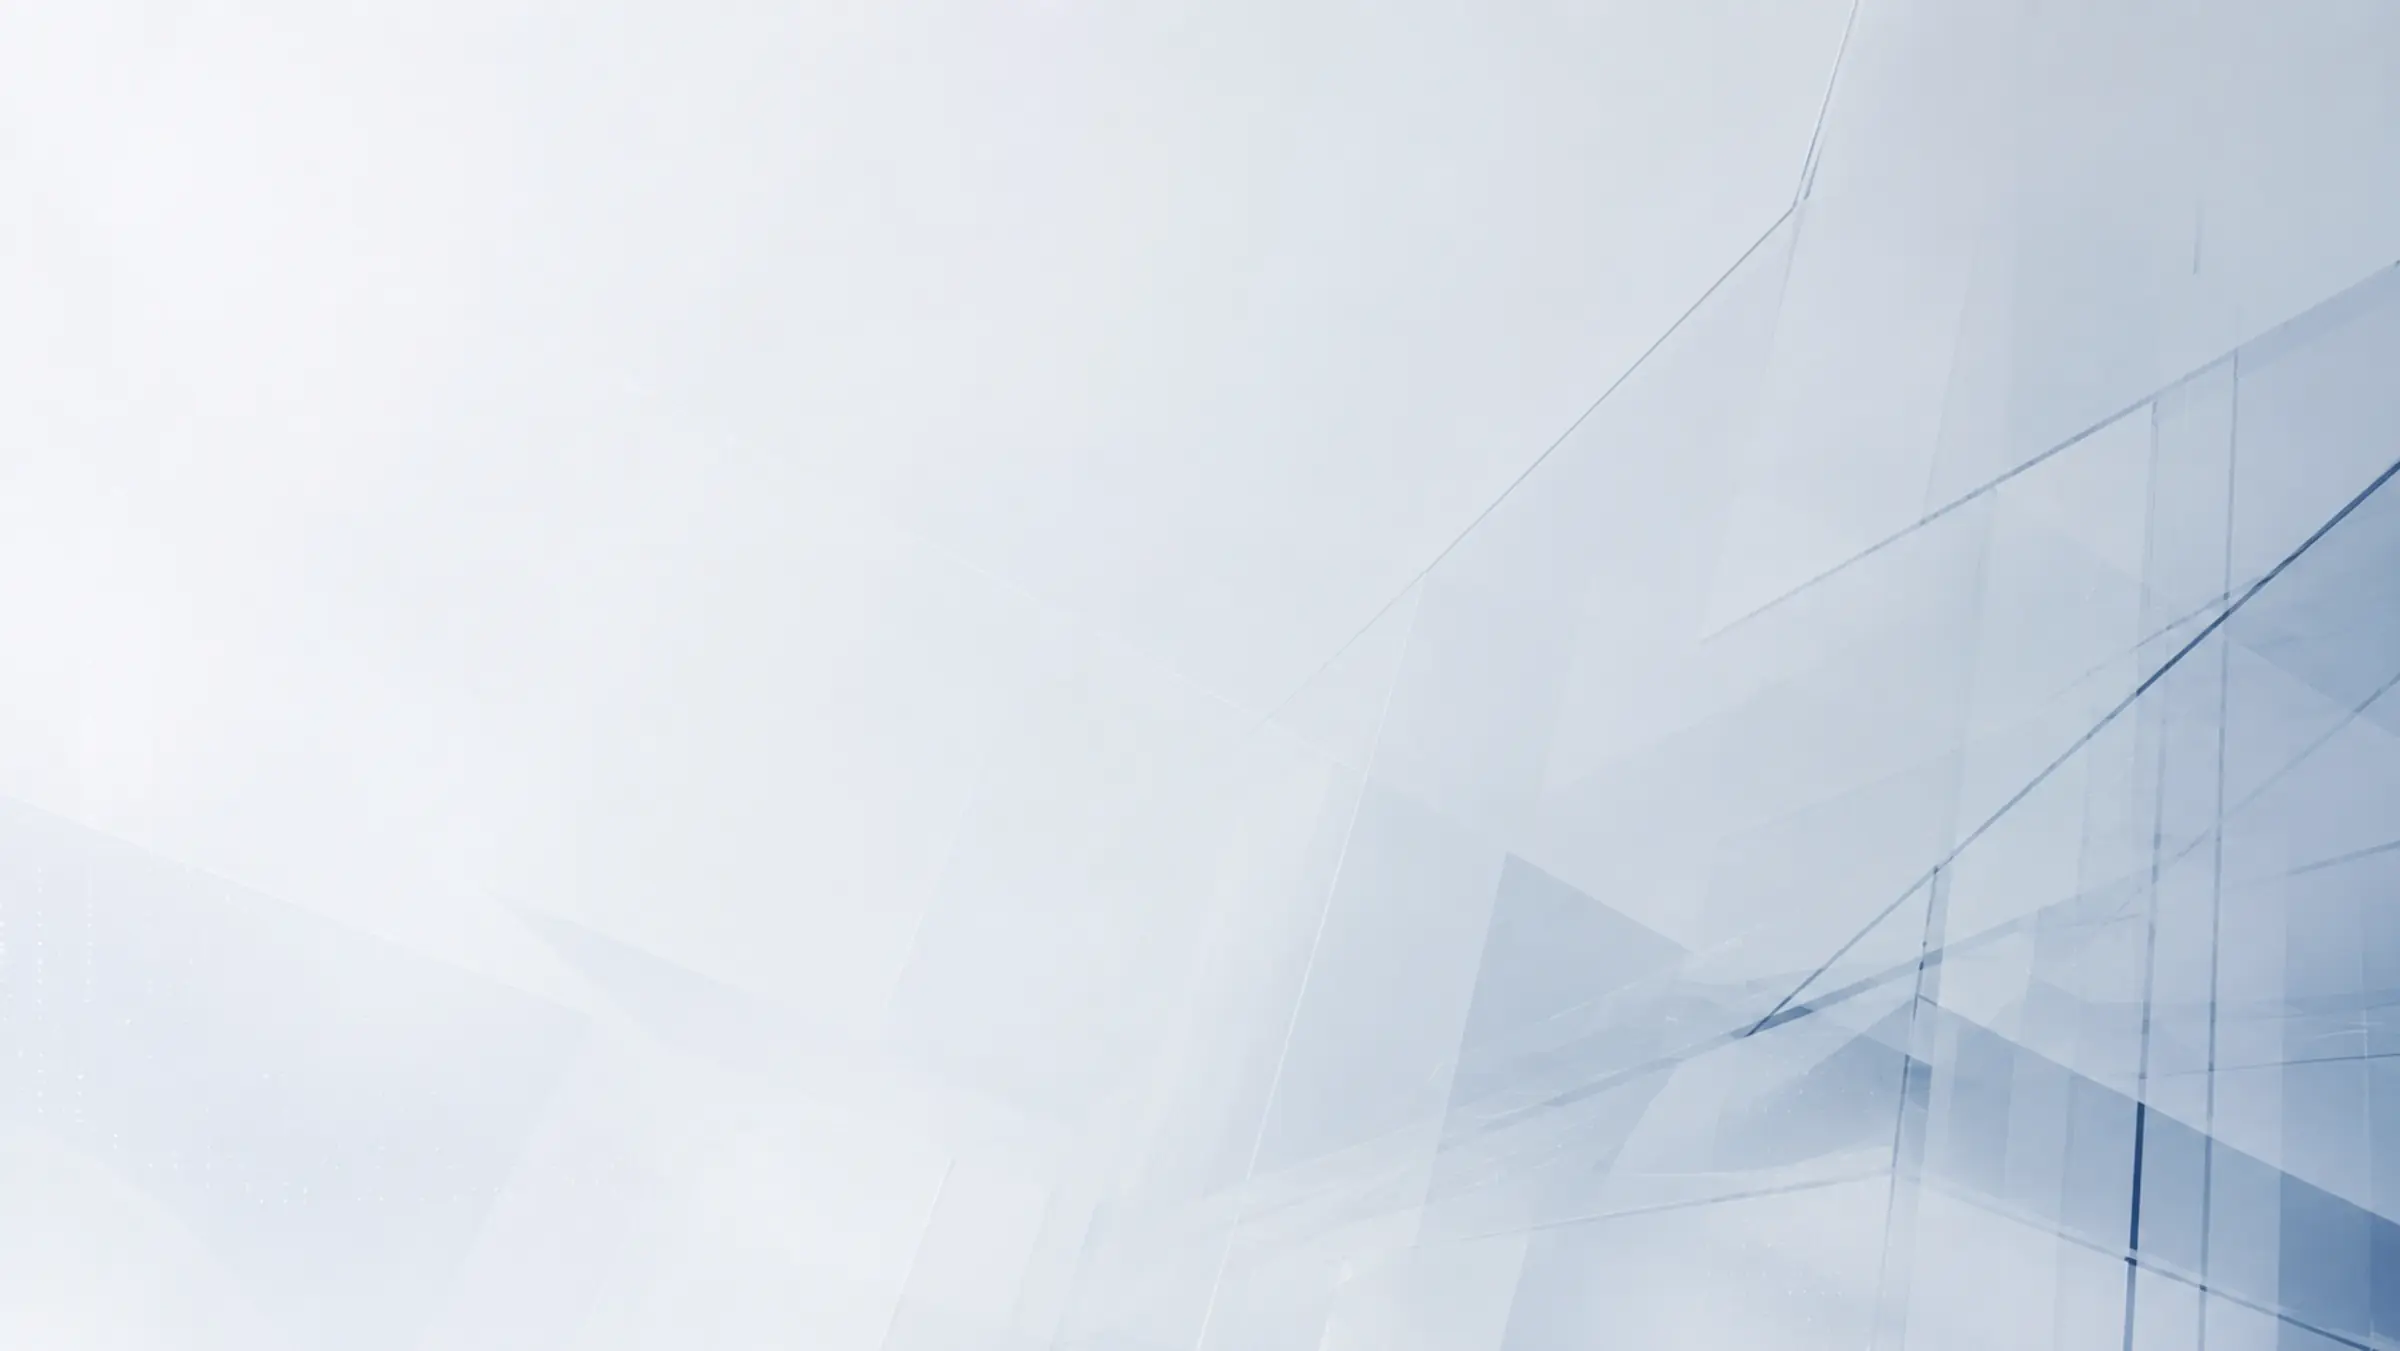
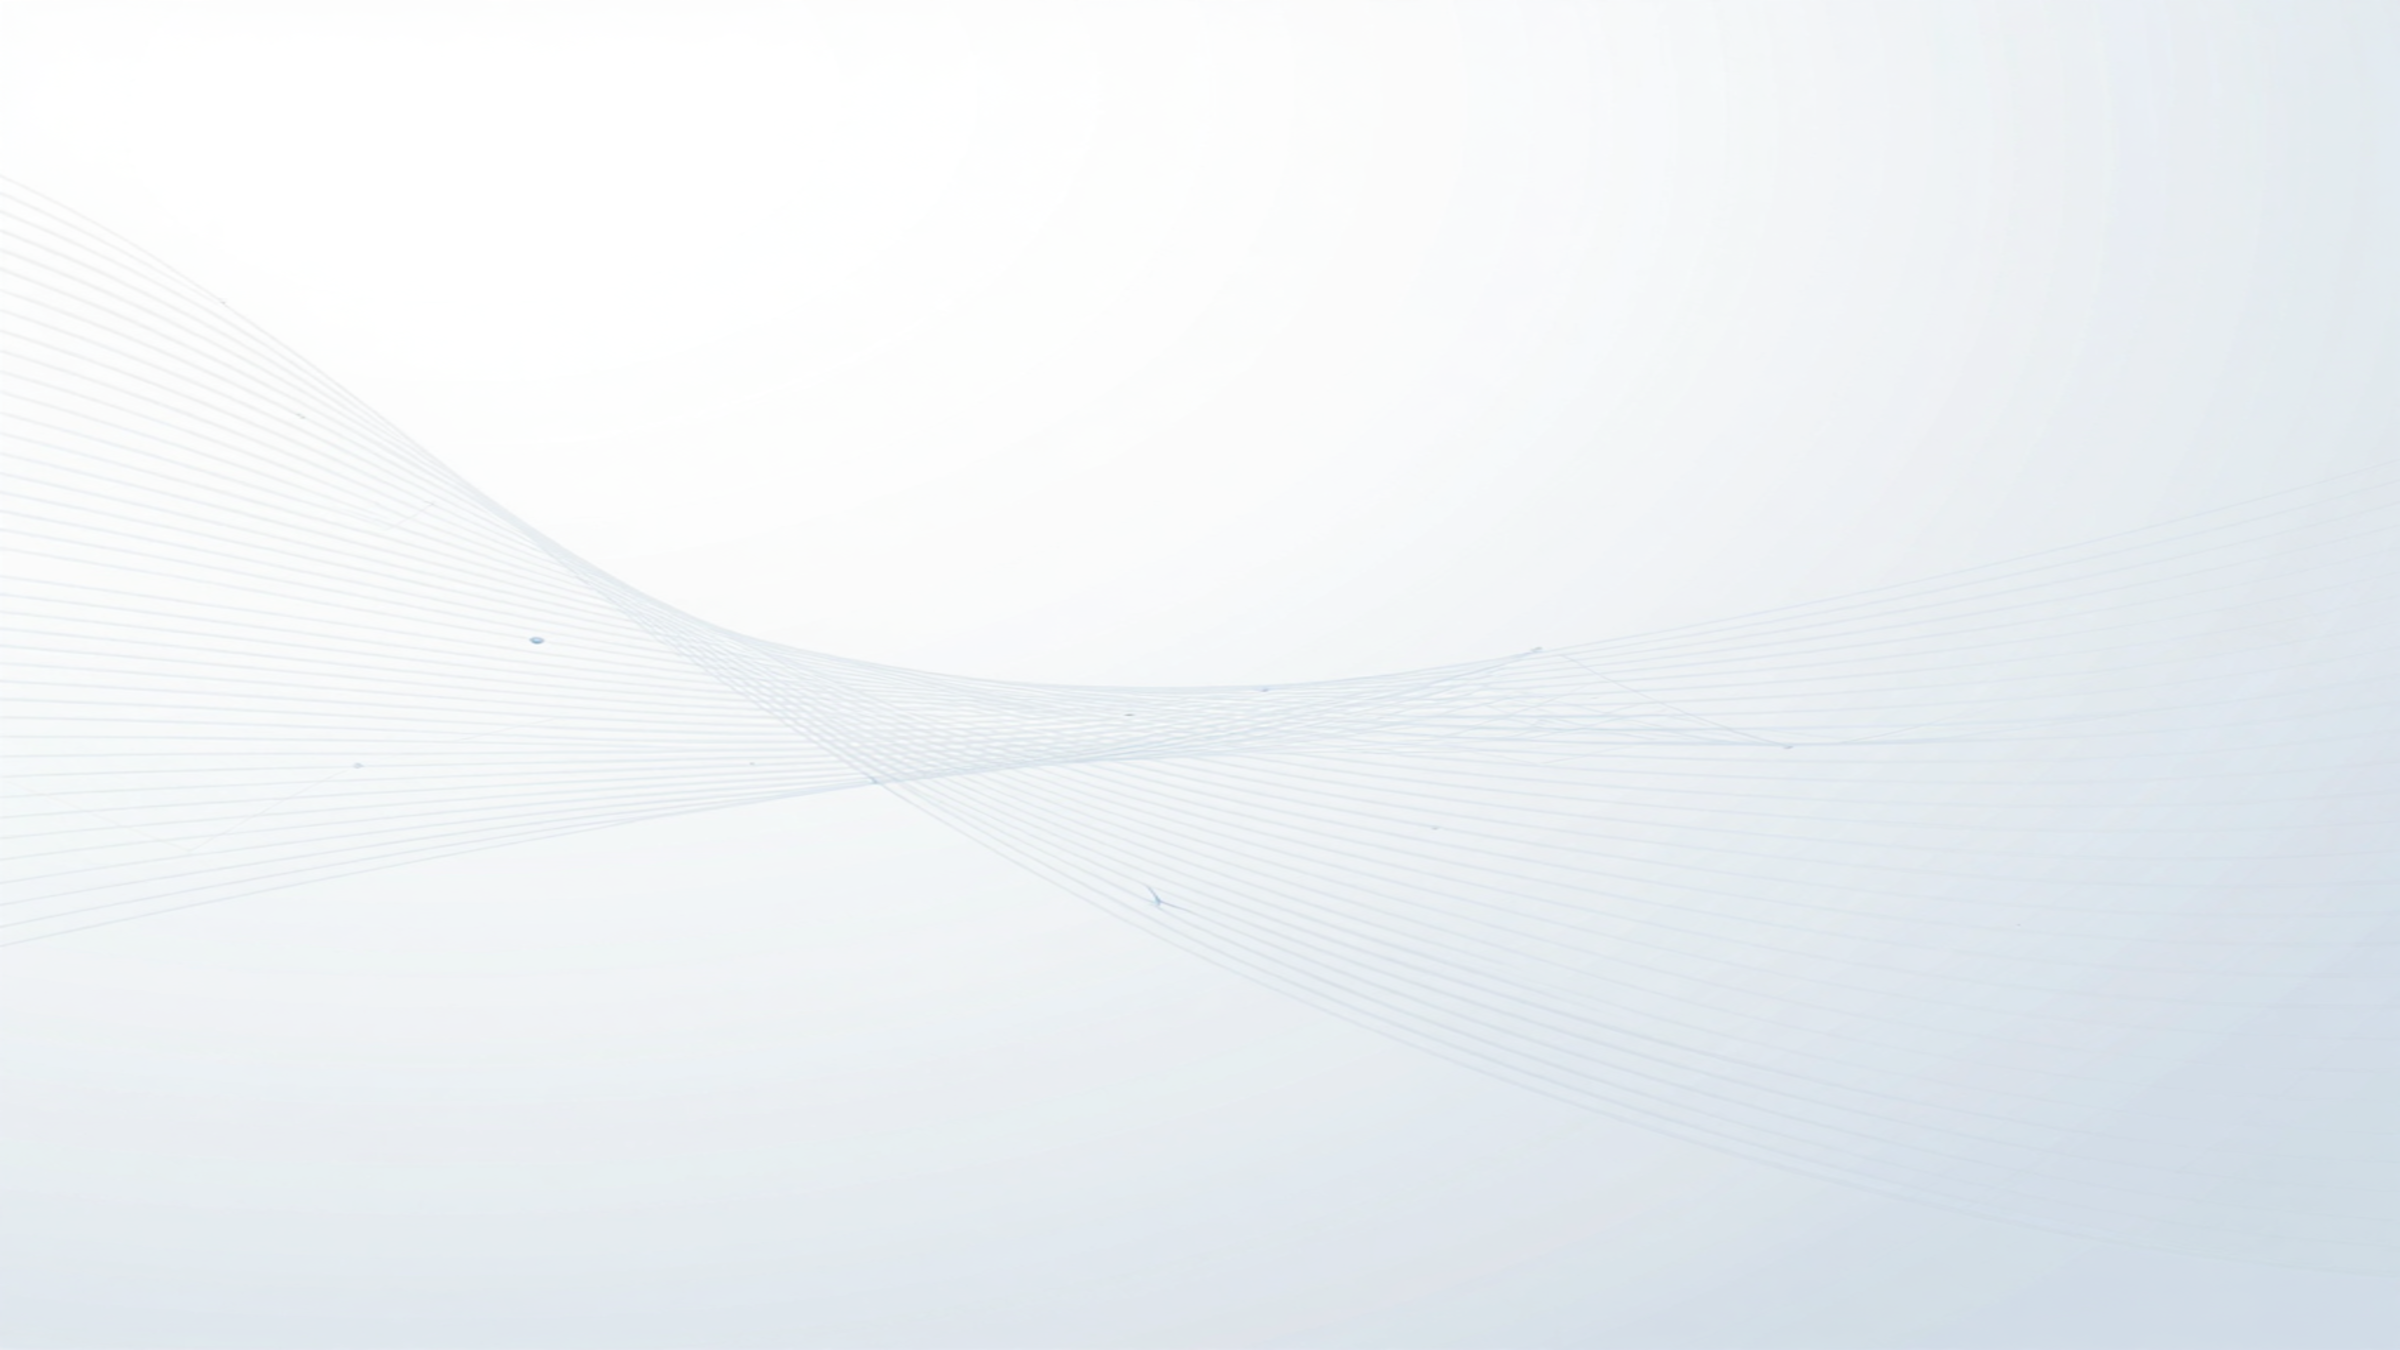
feat: Neues Hintergrundbild (topografische Konturlinien)
- output.png als Hero-Hintergrund verwendet
- Auf 2400x1350px gestreckt (horizontal format)
- Opacity von 0.20 auf 0.18 reduziert (subtiler)
- bg-position auf center gesetzt

diff --git a/app/page.tsx b/app/page.tsx
@@ -40,7 +40,7 @@ export default function Home() {
 
       <section className="relative isolate overflow-hidden bg-[var(--paper)]">
         <div
-            className="absolute inset-0 bg-cover bg-position-[center_right] opacity-[0.20] mask-[linear-gradient(to_bottom,black_0%,black_50%,transparent_100%)]"
+            className="absolute inset-0 bg-cover bg-position-[center] opacity-[0.18] mask-[linear-gradient(to_bottom,black_0%,black_50%,transparent_100%)]"
             style={{ backgroundImage: `url('${withBasePath("/ai-images/background_img.png")}')` }}
             aria-hidden="true"
         />